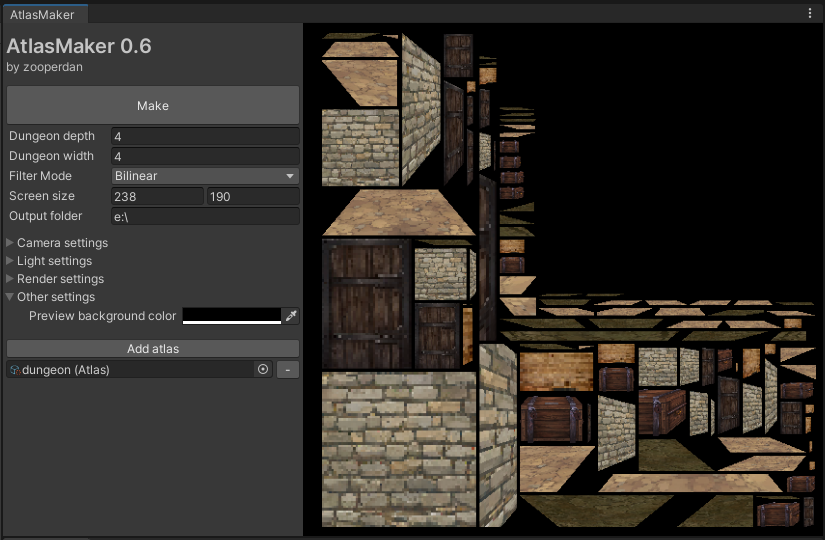
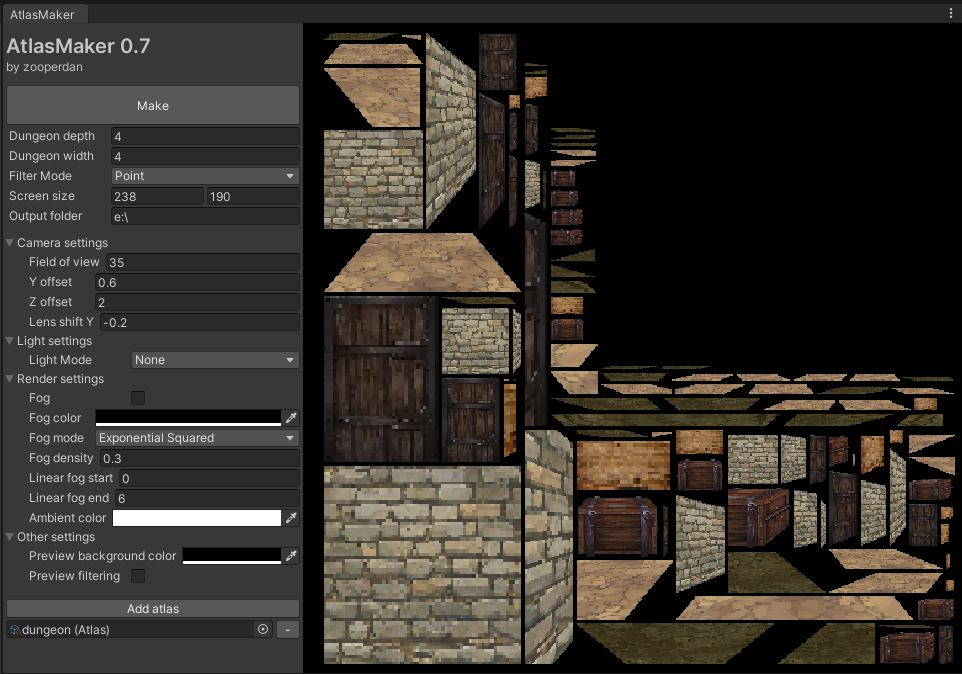
Minor update

diff --git a/AtlasMaker/AtlasMaker/AtlasMaker.cs b/AtlasMaker/AtlasMaker/AtlasMaker.cs
@@ -78,7 +78,7 @@ namespace zooperdan.AtlasMaker
         [JsonProperty(NullValueHandling = NullValueHandling.Ignore)]
         public string name;
         [JsonProperty(NullValueHandling = NullValueHandling.Ignore)]
-        public int bothsides;
+        public int mode;
         [JsonProperty(NullValueHandling = NullValueHandling.Ignore)]
         public int type;
         [SerializeField]
@@ -167,7 +167,7 @@ namespace zooperdan.AtlasMaker
         AtlasMakerSettings settings;
         GameObject atlasMakerCamera;
 
-        private const string VERSION_NUMBER = "0.6";
+        private const string VERSION_NUMBER = "0.7";
 
         private List<Vector2Int> _squaresToGenerateList = new List<Vector2Int>();
         private DataContainer _dataContainer = new DataContainer();
@@ -271,6 +271,7 @@ namespace zooperdan.AtlasMaker
 
             if (atlasTexture)
             {
+                atlasTexture.filterMode = settings.previewFiltering ? FilterMode.Bilinear : FilterMode.Point;
                 EditorGUI.DrawPreviewTexture(new Rect((toolbarWidth / 2) + 10, 10, previewWidth - ((toolbarWidth / 2) + 10), Screen.height-40), atlasTexture, _previewMaterial, ScaleMode.ScaleToFit);
             }
 
@@ -552,6 +553,12 @@ namespace zooperdan.AtlasMaker
                     _backgroundTex = MakeTex(1, 1, settings.previewBackgroundColor);
                 }
 
+                GUILayout.BeginHorizontal();
+                EditorGUILayout.Space(20);
+                GUILayout.Label("Preview filtering");
+                GUILayout.FlexibleSpace();
+                settings.previewFiltering = EditorGUILayout.Toggle(settings.previewFiltering);
+                GUILayout.EndHorizontal();
             }
 
             EditorGUILayout.Space();
@@ -720,7 +727,7 @@ namespace zooperdan.AtlasMaker
 
                 // while tiles to render?
 
-                if (atlas.layers[layerIndex].renderBothSides)
+                if (atlas.layers[layerIndex].renderMode == AtlasLayerRenderMode.ALL)
                 {
 
                     _squaresToGenerateList.Clear();
@@ -764,27 +771,46 @@ namespace zooperdan.AtlasMaker
 
                     model.transform.position = new Vector3(vec.x, 0.0f, vec.y);
 
-                    switch (atlas.layers[layerIndex].type)
+                    if (atlas.layers[layerIndex].renderMode == AtlasLayerRenderMode.MIDDLE)
                     {
-                        case AtlasLayerType.WALL:
-                        case AtlasLayerType.DECAL:
+                        /* render mode MIDDLE */
+
+                        if (vec.x == 0)
+                        {
+                            if (wallScript != null)
                             {
-                                if (atlas.layers[layerIndex].renderBothSides)
+                                wallScript.ShowFrontWall();
+                            }
+
+                            string typeName = (
+                                atlas.layers[layerIndex].type == AtlasLayerType.WALL || atlas.layers[layerIndex].type == AtlasLayerType.DECAL
+                                ) ? "front" : atlas.layers[layerIndex].type.ToString().ToLower();
+
+                            float z = (atlas.layers[layerIndex].type == AtlasLayerType.OBJECT) ? -1 : 0;
+
+                            if (vec.y <= z)
+                            {
+                                gri = GetGeneratedImage(atlas.layers[layerIndex], layerIndex, vec, typeName);
+                                if (gri != null)
                                 {
-                                    // front
-                                    if (wallScript != null)
-                                    {
-                                        wallScript.ShowFrontWall();
-                                    }
-                                    gri = GetGeneratedImage(atlas.layers[layerIndex], layerIndex, vec, "front");
-                                    if (gri != null)
-                                    {
-                                        jsonLayer.tiles.Add(gri.tile);
-                                        generatedImages.Add(gri.image);
-                                    }
-                                } else
+                                    jsonLayer.tiles.Add(gri.tile);
+                                    generatedImages.Add(gri.image);
+                                }
+                            }
+
+                        }
+
+                    }
+                    else
+                    {
+                        /* render mode LEFT or ALL */
+
+                        switch (atlas.layers[layerIndex].type)
+                        {
+                            case AtlasLayerType.WALL:
+                            case AtlasLayerType.DECAL:
                                 {
-                                    if (squareIndex <= settings.dungeonDepth)
+                                    if (atlas.layers[layerIndex].renderMode == AtlasLayerRenderMode.ALL)
                                     {
                                         // front
                                         if (wallScript != null)
@@ -798,67 +824,74 @@ namespace zooperdan.AtlasMaker
                                             generatedImages.Add(gri.image);
                                         }
                                     }
-                                }
+                                    else
+                                    {
+                                        if (squareIndex <= settings.dungeonDepth)
+                                        {
+                                            // front
+                                            if (wallScript != null)
+                                            {
+                                                wallScript.ShowFrontWall();
+                                            }
+                                            gri = GetGeneratedImage(atlas.layers[layerIndex], layerIndex, vec, "front");
+                                            if (gri != null)
+                                            {
+                                                jsonLayer.tiles.Add(gri.tile);
+                                                generatedImages.Add(gri.image);
+                                            }
+                                        }
+                                    }
 
-                                // side
-                                if (vec.x >= 0)
-                                {
-                                    if (wallScript != null)
+                                    // side
+                                    if (vec.x >= 0)
                                     {
-                                        wallScript.ShowSideWall();
-                                    }
-                                    gri = GetGeneratedImage(atlas.layers[layerIndex], layerIndex, vec, "side");
-                                    if (gri != null)
-                                    {
-                                        jsonLayer.tiles.Add(gri.tile);
-                                        generatedImages.Add(gri.image);
-                                    }
-                                }
-                            }
-                            break;
-                        case AtlasLayerType.OBJECT:
-                            {
-                                if (vec.y < 0)
-                                {
-                                    gri = GetGeneratedImage(atlas.layers[layerIndex], layerIndex, vec, "object");
-                                    if (gri != null)
-                                    {
-                                        jsonLayer.tiles.Add(gri.tile);
-                                        generatedImages.Add(gri.image);
+                                        if (wallScript != null)
+                                        {
+                                            wallScript.ShowSideWall();
+                                        }
+                                        gri = GetGeneratedImage(atlas.layers[layerIndex], layerIndex, vec, "side");
+                                        if (gri != null)
+                                        {
+                                            jsonLayer.tiles.Add(gri.tile);
+                                            generatedImages.Add(gri.image);
+                                        }
                                     }
                                 }
-                            }
-                            break;
-                        case AtlasLayerType.GROUND:
-                            {
-                                if (vec.y <= 0)
+                                break;
+                            case AtlasLayerType.OBJECT:
                                 {
-                                    gri = GetGeneratedImage(atlas.layers[layerIndex], layerIndex, vec, "ground");
-                                    if (gri != null)
+                                    if (vec.y < 0)
                                     {
-                                        jsonLayer.tiles.Add(gri.tile);
-                                        generatedImages.Add(gri.image);
+                                        gri = GetGeneratedImage(atlas.layers[layerIndex], layerIndex, vec, atlas.layers[layerIndex].type.ToString().ToLower());
+                                        if (gri != null)
+                                        {
+                                            jsonLayer.tiles.Add(gri.tile);
+                                            generatedImages.Add(gri.image);
+                                        }
                                     }
                                 }
-                            }
-                            break;
-                        case AtlasLayerType.CEILING:
-                            {
-                                if (vec.y <= 0)
+                                break;
+                            case AtlasLayerType.GROUND:
+                            case AtlasLayerType.CEILING:
                                 {
-                                    gri = GetGeneratedImage(atlas.layers[layerIndex], layerIndex, vec, "ceiling");
-                                    if (gri != null)
+                                    if (vec.y <= 0)
                                     {
-                                        jsonLayer.tiles.Add(gri.tile);
-                                        generatedImages.Add(gri.image);
+                                        gri = GetGeneratedImage(atlas.layers[layerIndex], layerIndex, vec, atlas.layers[layerIndex].type.ToString().ToLower());
+                                        if (gri != null)
+                                        {
+                                            jsonLayer.tiles.Add(gri.tile);
+                                            generatedImages.Add(gri.image);
+                                        }
                                     }
                                 }
-                            }
-                            break;
+                                break;
+                        }
+
+                        squareIndex++;
                     }
 
-                    squareIndex++;
                 }
+
 
                 // remove model after use
 
@@ -867,7 +900,7 @@ namespace zooperdan.AtlasMaker
                 // add processed layer to json container
 
                 jsonLayer.id = layerIndex + 1;
-                jsonLayer.bothsides = atlas.layers[layerIndex].renderBothSides ? 1 : 0;
+                jsonLayer.mode = (int)atlas.layers[layerIndex].renderMode;
                 jsonLayer.name = atlas.layers[layerIndex].id;
                 jsonResult.layers.Add(jsonLayer);
 

diff --git a/AtlasMaker/AtlasMaker/AtlasLayer.cs b/AtlasMaker/AtlasMaker/AtlasLayer.cs
@@ -15,6 +15,13 @@ namespace zooperdan.AtlasMaker
         OBJECT = 4
     };
 
+    public enum AtlasLayerRenderMode
+    {
+        LEFT = 0,
+        MIDDLE = 1,
+        ALL = 2
+    };
+
     [CreateAssetMenu(fileName = "AtlasLayer", menuName = "zooperdan/AtlasMaker/AtlasLayer", order = 1)]
     public class AtlasLayer : ScriptableObject
     {
@@ -22,7 +29,7 @@ namespace zooperdan.AtlasMaker
         public GameObject model;
         public string id;
         public AtlasLayerType type = AtlasLayerType.WALL;
-        public bool renderBothSides = false;
+        public AtlasLayerRenderMode renderMode = AtlasLayerRenderMode.LEFT;
     }
 
 }

diff --git a/AtlasMaker/AtlasMaker/AtlasMakerSettings.cs b/AtlasMaker/AtlasMaker/AtlasMakerSettings.cs
@@ -61,6 +61,7 @@ namespace zooperdan.AtlasMaker
         // other settings
 
         public Color previewBackgroundColor = Color.black;
+        public bool previewFiltering = false;
     }
 
 }
